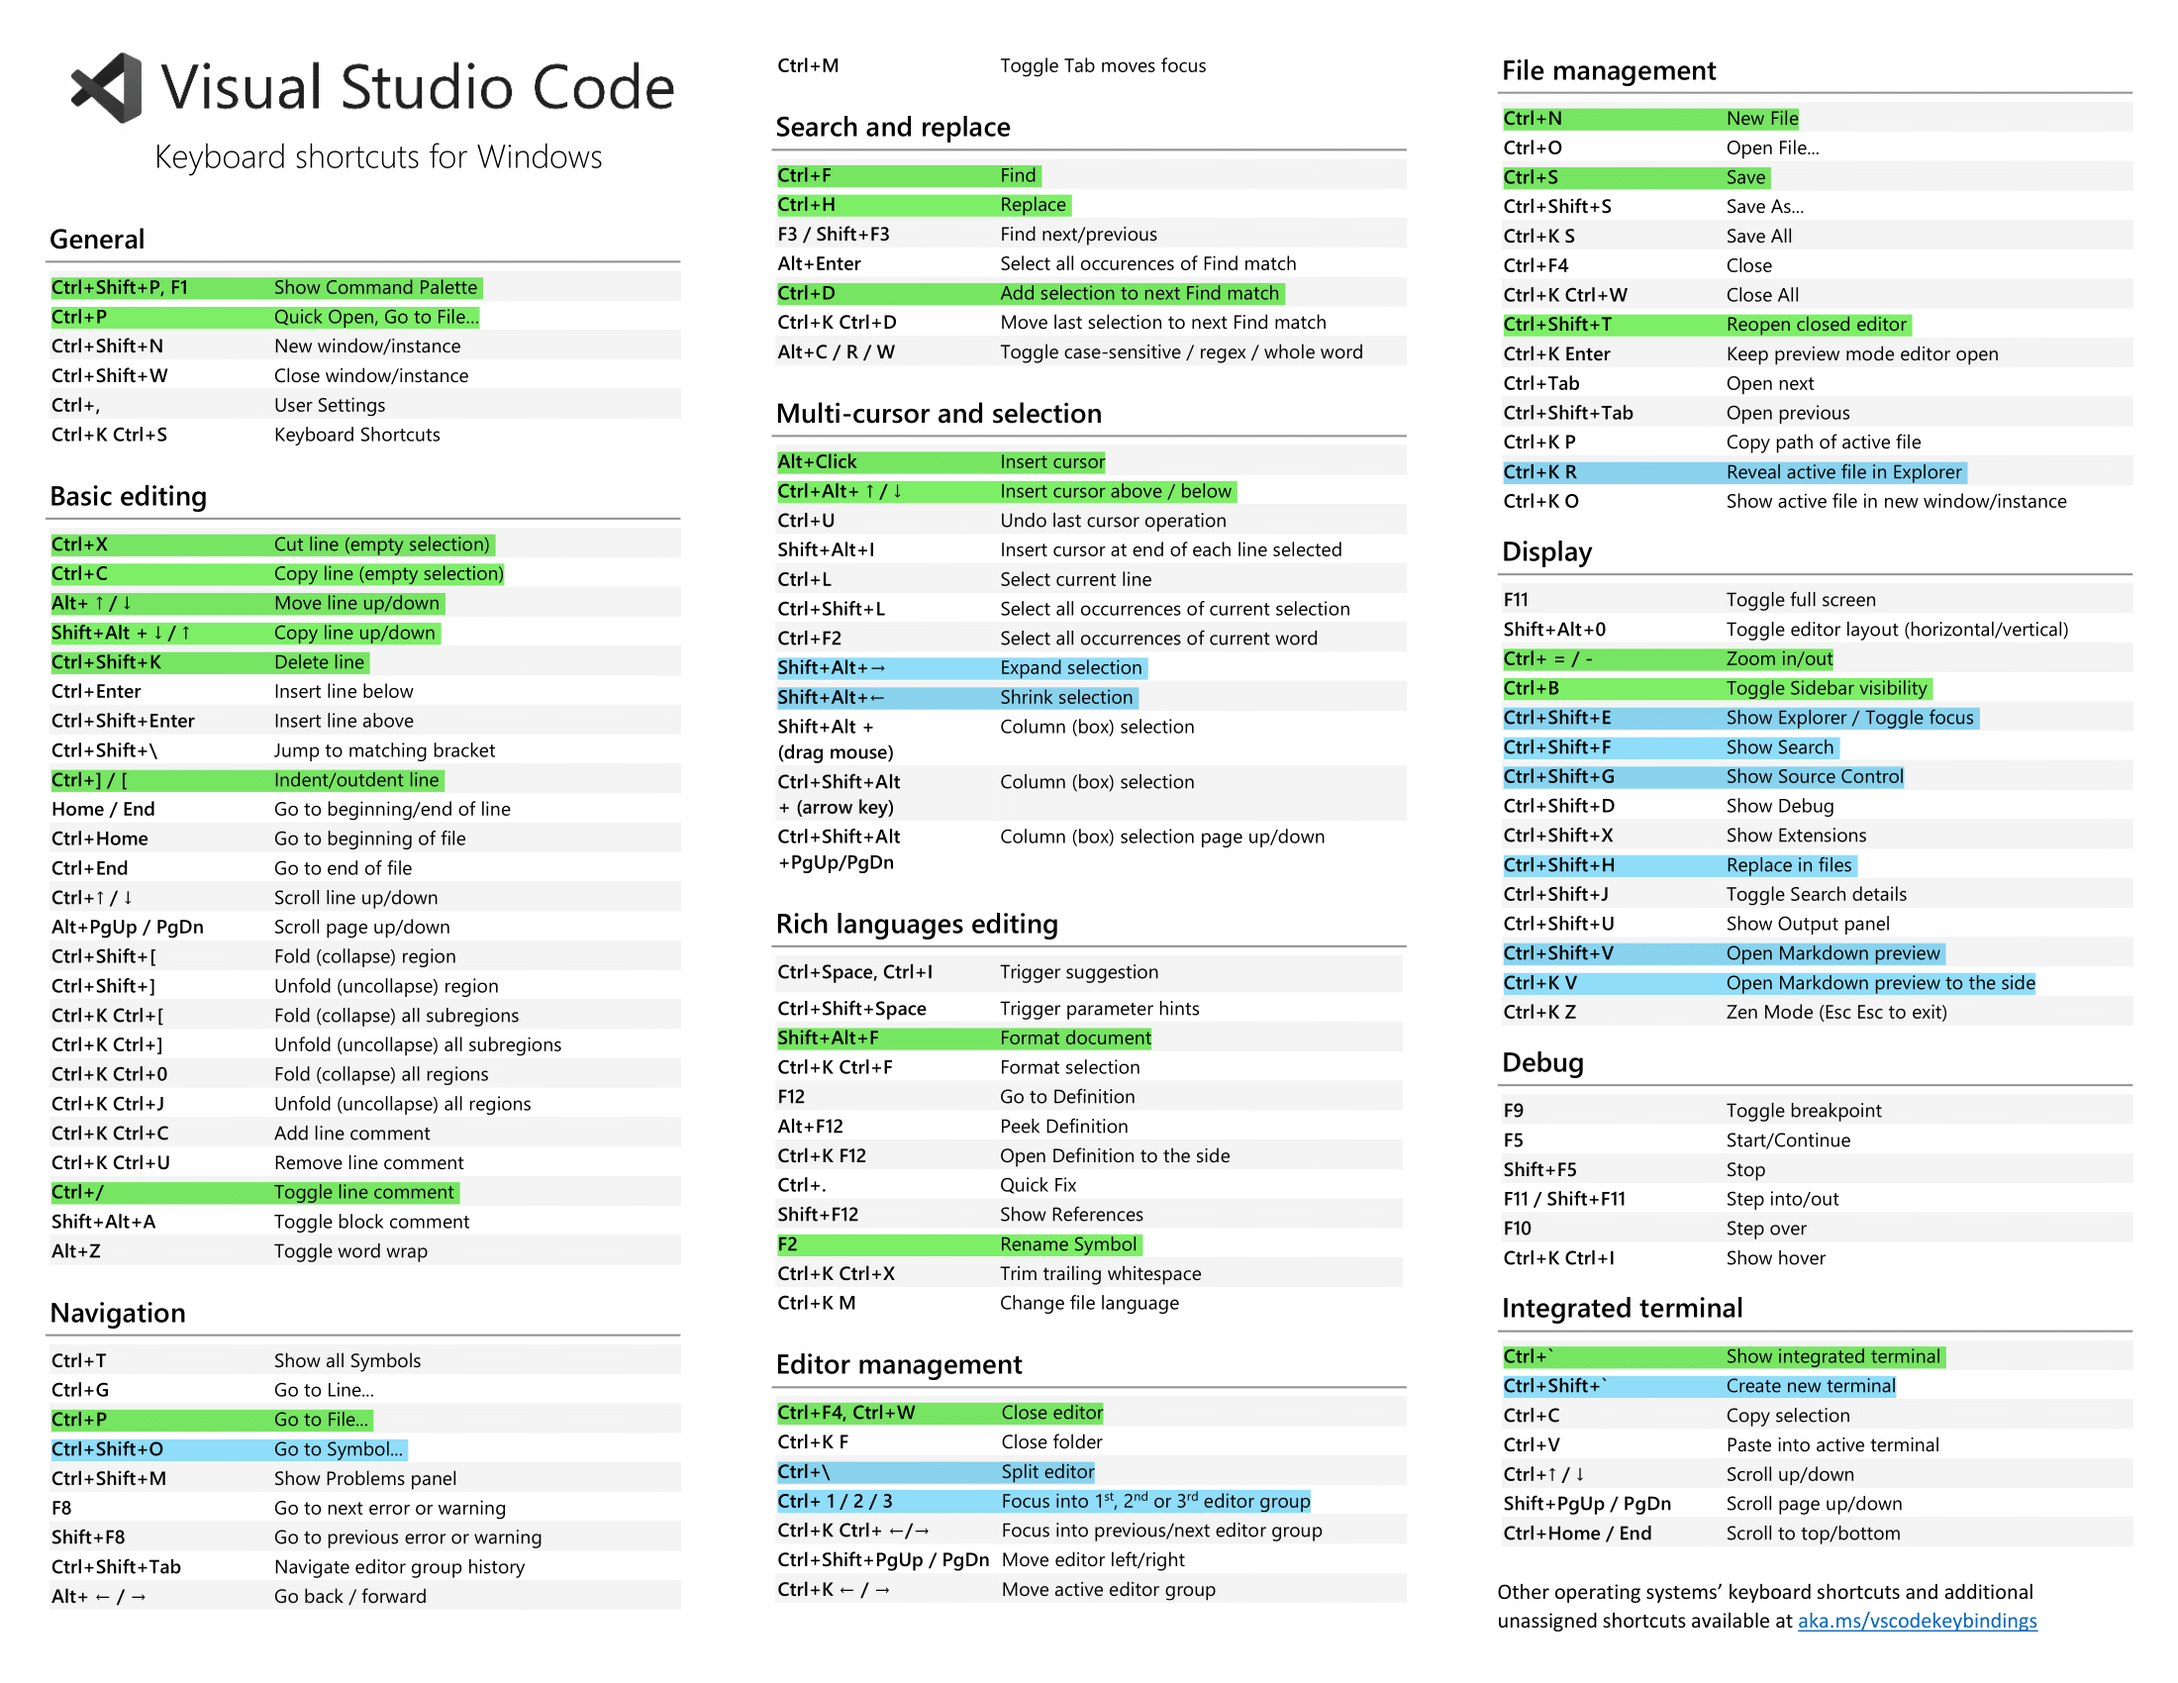
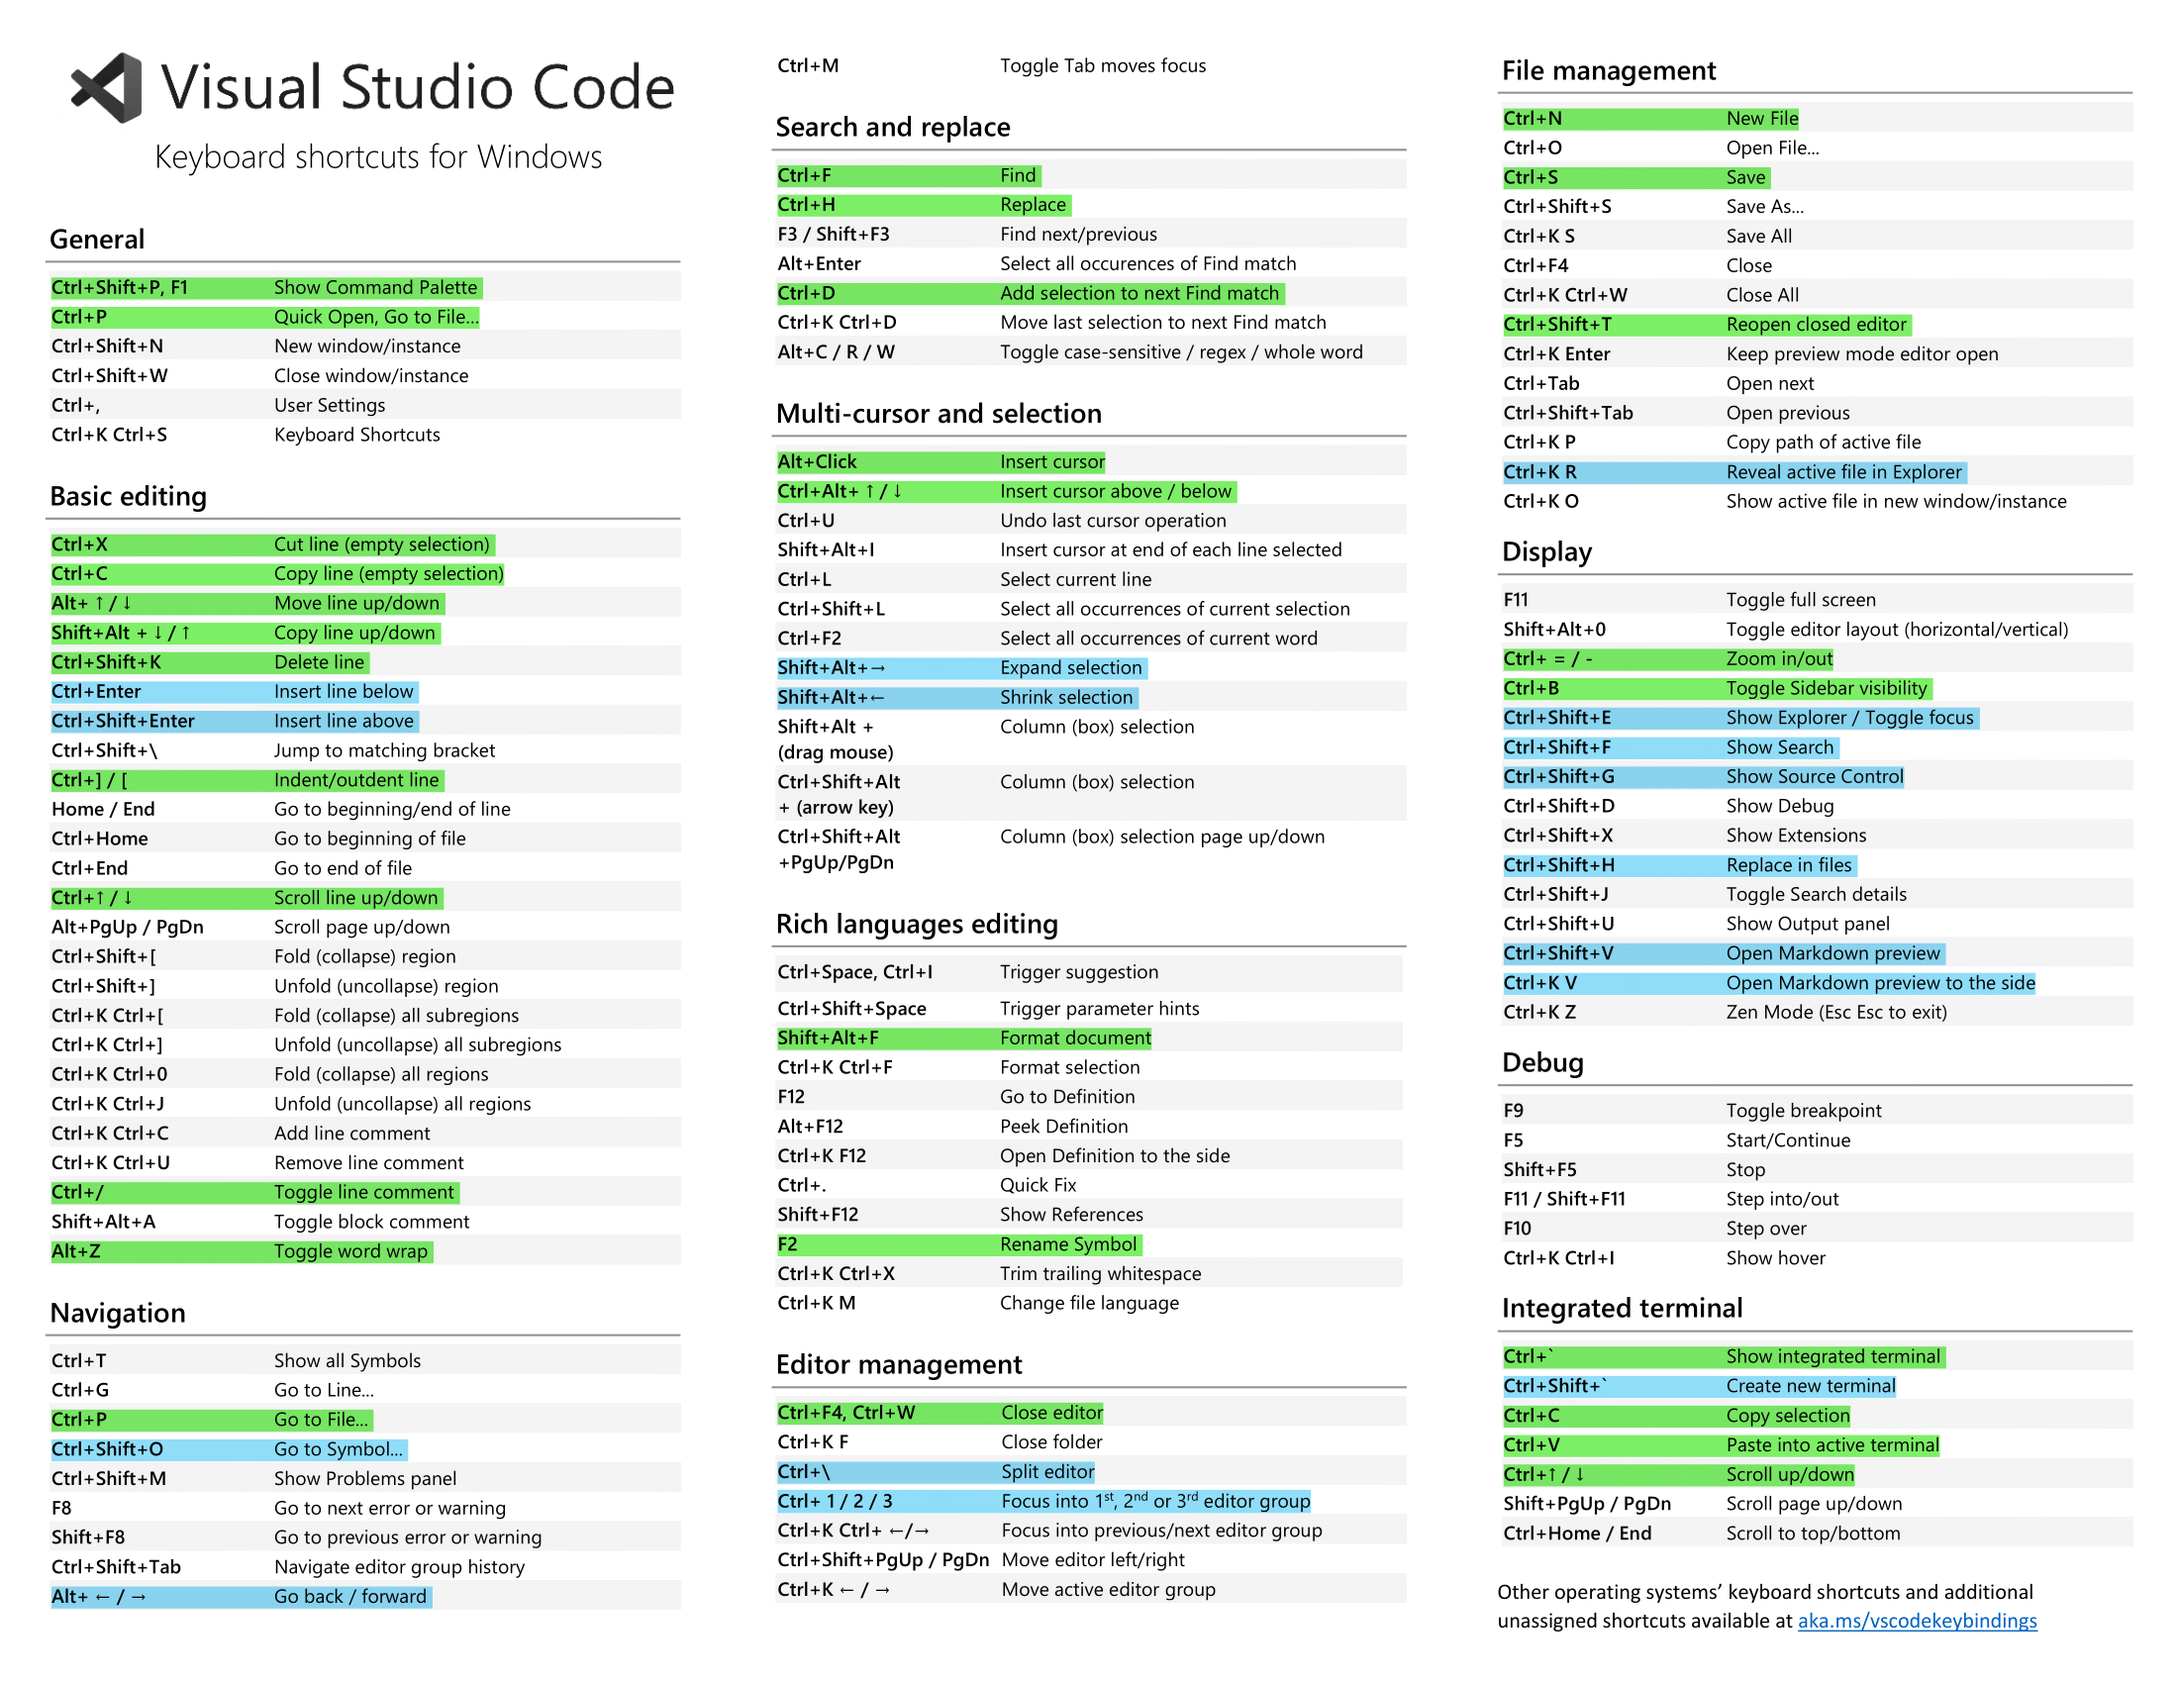
Ещё про горячие клавиши

diff --git a/docs/VS-Code/hotkeys.md b/docs/VS-Code/hotkeys.md
@@ -11,11 +11,13 @@
 
 !!! tip
 
+    `ctrl + shift + p` - главное сочетание клавиш, которое стоит запомнить.
+
     Удалить множественные курсоры можно с помощью `Esc`.
 
     Если с помощью `ctrl + d` выделили лишнее, то сочетанием `ctrl + u` можно убрать последнее выделение.
 
     `ctrl + alt + ←/→` - перенести файл в левую/правую группу вкладок.
 
-
+    `alt + z` - крайне полезно при работе с Latex, Markdown и другими "широкими" файлами.
 
